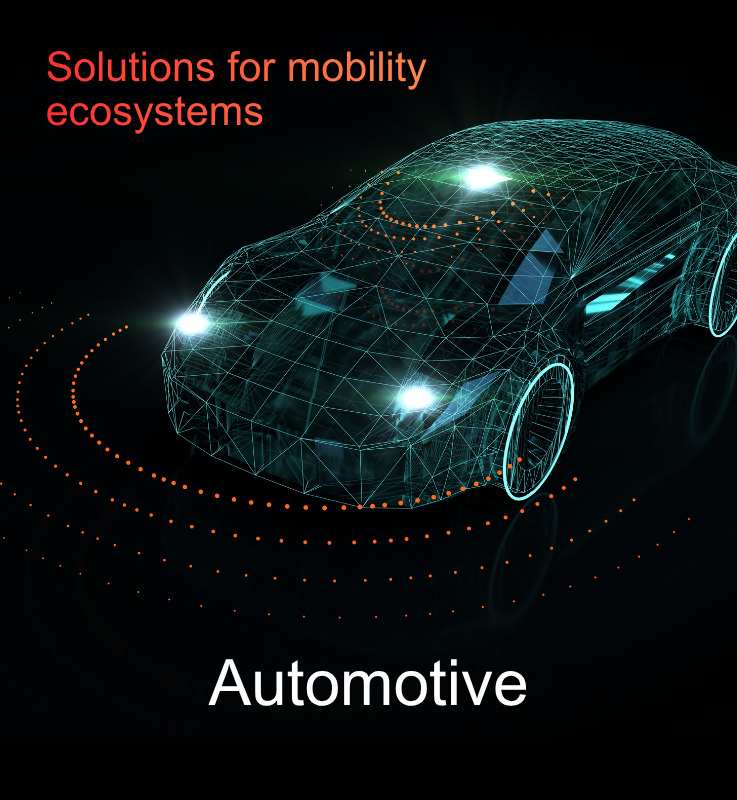
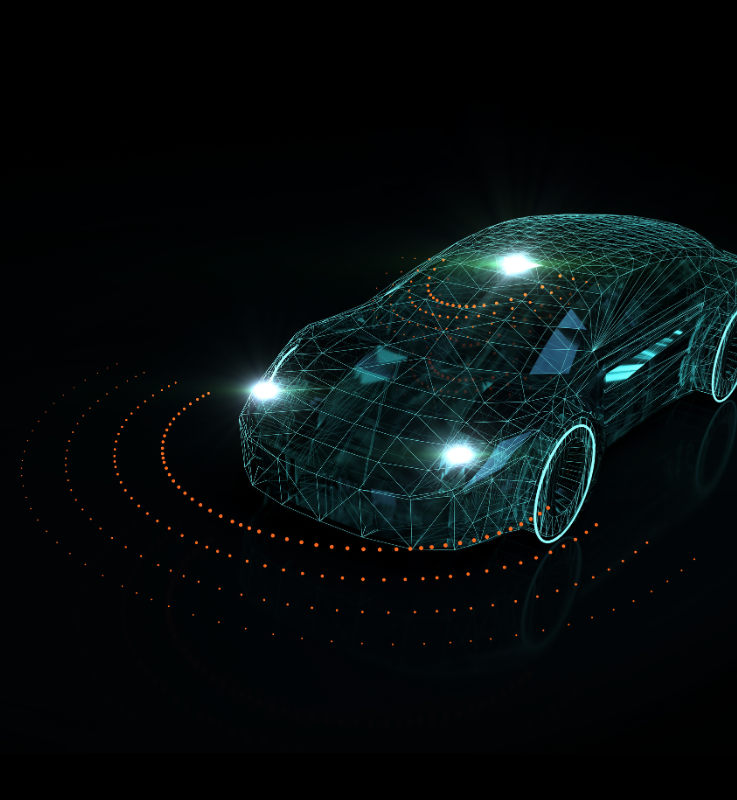
image and text upadte

diff --git a/src/components/Hero.jsx b/src/components/Hero.jsx
@@ -7,18 +7,34 @@ export default function Hero() {
   const panels = [
     {
       image: "/1.png",
+      letter: "A",
+      wordSuffix: "utomotive",
+      greenWord: "Manufacturing",
+      description: "Accelerating the digital transformation journey of your manufacturing enterprise.",
       link: "#dream-details"
     },
     {
       image: "/2.png",
+      letter: "P",
+      wordSuffix: "harma",
+      greenWord: "Healthcare",
+      description: "Cognitive AI operations and data platform engineering for life sciences.",
       link: "#dream-details"
     },
     {
       image: "/3.png",
+      letter: "E",
+      wordSuffix: "lectronics",
+      greenWord: "Specialty Steel",
+      description: "Niche engineering expertise across electronics, steel, and food processing.",
       link: "#dream-details"
     },
     {
       image: "/4.png",
+      letter: "G",
+      wordSuffix: "lobal",
+      greenWord: "Capabilities",
+      description: "Empowering global enterprises with adaptive AI and cloud solutions.",
       link: "#dream-details"
     }
   ];
@@ -41,54 +57,91 @@ export default function Hero() {
                 }`}
             >
 
-              {/* Background Image */}
+              {/* Background Image with crisp contrast and full image text visibility */}
               <div
-                className="absolute inset-0 bg-cover bg-center transition-transform duration-10000 scale-105"
+                className={`absolute inset-0 bg-cover bg-center scale-100 transition-all duration-700 ${isHovered ? 'contrast-[1.12] brightness-[1.08] saturate-[1.12]' : 'contrast-[1.02] brightness-[1.02]'
+                  }`}
                 style={{ backgroundImage: `url(${panel.image})` }}
               />
 
-              {/* Dark Overlay (gets lighter when hovered) */}
-              <div className={`absolute inset-0 transition-colors duration-500 ${isHovered ? 'bg-black/45' : 'bg-black/75'
+              {/* Top-left Orange Text Overlay for the first panel (Automotive) */}
+              {idx === 0 && (
+                <div className={`absolute top-20 left-8 md:top-28 md:left-10 z-20 pointer-events-none select-none text-left transition-all duration-500 ${isHovered ? 'max-w-xs md:max-w-sm' : 'max-w-[150px]'
+                  }`}>
+                  <h3 className={`font-normal leading-tight font-sans tracking-tight transition-all duration-500 ${isHovered ? 'text-2xl md:text-3.5xl lg:text-4xl text-[#f05a28]' : 'text-lg md:text-xl lg:text-[22px] text-[#f05a28]/90'
+                    }`}>
+                    Solutions for mobility<br />ecosystems
+                  </h3>
+                </div>
+              )}
+
+              {/* Top-left Blue/Cyan Text Overlay for the second panel (Pharma) */}
+              {idx === 1 && (
+                <div className={`absolute top-20 left-8 md:top-28 md:left-10 z-20 pointer-events-none select-none text-left transition-all duration-500 ${isHovered ? 'max-w-xs md:max-w-sm' : 'max-w-[150px]'
+                  }`}>
+                  <h3 className={`font-normal leading-tight font-sans tracking-tight transition-all duration-500 ${isHovered ? 'text-2xl md:text-3.5xl lg:text-4xl text-[#00aeef]' : 'text-lg md:text-xl lg:text-[22px] text-[#00aeef]/90'
+                    }`}>
+                    Pharma DX & compliance<br />management
+                  </h3>
+                </div>
+              )}
+
+              {/* Text Overlay for the third panel (Electronics / Manufacturing Sectors) */}
+              {idx === 2 && (
+                <div className={`absolute top-20 left-8 md:top-28 md:left-10 z-20 pointer-events-none select-none text-left transition-all duration-500 ${isHovered ? 'max-w-xs md:max-w-sm' : 'max-w-[150px]'
+                  }`}>
+                  {/* Top Header */}
+                  <h3 className={`font-normal leading-tight font-sans tracking-tight transition-all duration-500 ${isHovered ? 'text-2xl md:text-3.5xl lg:text-4xl' : 'text-lg md:text-xl lg:text-[22px]'
+                    }`}>
+                    <span className="text-[#c084fc]">Serving across all</span><br />
+                    <span className="text-[#00aeef]">manufacturing sectors</span>
+                  </h3>
+
+                  {/* Service List */}
+                  <div className={`mt-6 md:mt-10 space-y-1.5 font-bold font-sans text-white transition-all duration-500 leading-tight ${isHovered ? 'text-xl md:text-2xl opacity-100' : 'text-xs md:text-sm opacity-85'
+                    }`}>
+                    <div>Electronics</div>
+                    <div>Specialty Steel</div>
+                    <div>Food processing</div>
+                    <div>Construction material</div>
+                    <div className="opacity-60 text-xs md:text-sm mt-0.5">... etc.</div>
+                  </div>
+                </div>
+              )}
+
+              {/* Text Overlay for the fourth panel (Global / Value addition) */}
+              {idx === 3 && (
+                <div className={`absolute top-20 left-8 md:top-28 md:left-10 z-20 pointer-events-none select-none text-left transition-all duration-500 ${isHovered ? 'max-w-xs md:max-w-sm' : 'max-w-[150px]'
+                  }`}>
+                  <h3 className={`font-normal leading-tight font-sans tracking-tight transition-all duration-500 ${isHovered ? 'text-2xl md:text-3.5xl lg:text-4xl' : 'text-lg md:text-xl lg:text-[22px]'
+                    }`}>
+                    <span className="text-gray-500">Aspiring to add value</span><br />
+                    <span className="text-slate-800">to manufacturing sector</span>
+                  </h3>
+                </div>
+              )}
+
+              {/* Dark Overlay Gradient (ensures crisp white text readability over background) */}
+              <div className={`absolute inset-0 transition-opacity duration-500 ${isHovered ? 'bg-gradient-to-t from-black/95 via-black/40 to-transparent' : 'bg-gradient-to-t from-black/90 via-black/50 to-black/20'
                 }`} />
 
-              {/* Content Box */}
+              {/* Content Box (Keeps expanding titles: AUTOMOTIVE, PHARMA, etc.) */}
               <div className="absolute inset-0 flex flex-col justify-end p-6 md:p-8 z-10">
-                <div className="space-y-3 max-w-sm">
+                <div className="space-y-2.5 max-w-xl md:max-w-2xl">
 
-                  {/* Letter Header */}
-                  {/* <div className="flex items-baseline leading-none">
-                    <span className="text-5xl md:text-6xl lg:text-7xl font-black text-white select-none">
-                      {panel.letter}
-                    </span>
-                    <span className={`text-xl md:text-2xl font-black text-ossisto-blue uppercase tracking-wide transition-all duration-500 origin-left overflow-hidden ${
-                      isHovered ? 'max-w-xs opacity-100 ml-0.5' : 'max-w-0 opacity-0'
-                    }`}>
-                      {panel.wordSuffix}
-                    </span>
-                    {panel.greenWord && isHovered && (
-                      <span className="text-xl md:text-2xl font-black text-ossisto-blue uppercase tracking-wide ml-2 animate-fade-in">
-                        {panel.greenWord}
+                  {/* Letter Header: Displays single letter when normal (A, P, E, G), expands to full word on hover */}
+                  <div className="flex flex-col leading-none">
+                    <div className="flex items-baseline leading-none">
+                      <span className={`font-black text-white select-none tracking-tight transition-all duration-500 ${isHovered ? 'text-5xl md:text-6xl lg:text-7xl' : 'text-3xl md:text-4xl lg:text-[42px]'
+                        }`}>
+                        {panel.letter}
                       </span>
-                    )}
-                  </div> */}
-
-                  {/* Description text */}
-                  {/* <p className={`text-xs md:text-sm text-gray-300 font-semibold leading-relaxed transition-opacity duration-300 ${
-                    isHovered ? 'opacity-100' : 'opacity-85 lg:opacity-75'
-                  }`}>
-                    {panel.description}
-                  </p> */}
-
-                  {/* Know More CTA Link */}
-                  {/* <div className="pt-1.5">
-                    <a 
-                      href={panel.link}
-                      className="inline-flex items-center gap-1 text-[11px] font-bold text-ossisto-blue hover:text-white uppercase tracking-wider transition-colors"
-                    >
-                      Know More 
-                      <span className="text-[10px] select-none">▶</span>
-                    </a>
-                  </div> */}
+                      <span className={`font-black text-white tracking-tight transition-all duration-500 origin-left overflow-hidden max-w-2xl opacity-100 ${isHovered ? 'text-4xl md:text-5xl lg:text-6xl' : 'text-2xl md:text-3xl lg:text-[32px]'
+                        }`}>
+                        {panel.wordSuffix}
+                      </span>
+                    </div>
+                  </div>
 
                 </div>
               </div>
@@ -99,29 +152,18 @@ export default function Hero() {
       </div>
 
       {/* Floating Left Search Button Overlay (Fixed viewport position) */}
-      <div className="fixed bottom-12 left-8 md:left-12 z-30 w-full max-w-[285px] hidden md:block">
+      <div className="fixed bottom-12 left-8 md:left-12 z-30 w-full max-w-[210px] hidden md:block">
         {/* Custom Search Box converted to a button */}
         <button
           onClick={() => {
             const el = document.getElementById('dream-details');
             if (el) el.scrollIntoView({ behavior: 'smooth' });
           }}
-          className="w-full bg-slate-950/85 backdrop-blur-md border border-ossisto-blue/30 px-4 py-2.5 rounded-full flex items-center justify-between gap-2 shadow-2xl hover:bg-slate-900/90 transition-all duration-200 cursor-pointer text-left"
+          className="w-full bg-slate-950/85 backdrop-blur-md border border-ossisto-blue/30 px-5 py-2.5 rounded-full flex items-center justify-center shadow-2xl hover:bg-slate-900/90 transition-all duration-200 cursor-pointer text-center"
         >
-          <div className="flex items-center gap-2 flex-1">
-            {/* Sparkle star icon */}
-            <span className="text-ossisto-blue text-xs font-bold animate-pulse">✦</span>
-            <span className="text-gray-300 text-[11px] font-semibold tracking-wide">
-              Search the intelligent future...
-            </span>
-          </div>
-
-          {/* Arrow icon container */}
-          <div
-            className="w-7 h-7 rounded-full bg-ossisto-blue flex items-center justify-center text-white shrink-0 shadow-md shadow-ossisto-blue/10"
-          >
-            <ArrowUpRight className="w-3.5 h-3.5 stroke-[2.5]" />
-          </div>
+          <span className="text-gray-300 text-[11px] font-semibold tracking-wide">
+            Open positions – Apply
+          </span>
         </button>
       </div>
 

diff --git a/src/components/DreamDetails.jsx b/src/components/DreamDetails.jsx
@@ -129,7 +129,7 @@ export default function DreamDetails() {
   ];
 
   return (
-    <section id="dream-details" className="bg-white py-16 px-6 md:px-12 lg:px-24 border-b border-gray-100 font-sans relative overflow-hidden">
+    <section id="dream-details" className="bg-white py-16 px-6 md:px-12 lg:px-24 font-sans relative overflow-hidden">
       
       {/* Inline styles for the horizontal logo marquee */}
       <style dangerouslySetInnerHTML={{__html: `
@@ -147,32 +147,7 @@ export default function DreamDetails() {
         }
       `}} />
 
-      {/* Decorative Top-Left Dots Grid */}
-      <div className="absolute top-8 left-8 hidden lg:grid grid-cols-4 gap-1.5 opacity-20 pointer-events-none">
-        {Array.from({ length: 16 }).map((_, i) => (
-          <div key={i} className="w-1.5 h-1.5 rounded-full bg-slate-500" />
-        ))}
-      </div>
 
-      {/* Decorative Right-Side Dots Columns */}
-      <div className="absolute right-8 top-1/2 -translate-y-1/2 hidden lg:grid grid-cols-2 gap-2 opacity-20 pointer-events-none">
-        {Array.from({ length: 16 }).map((_, i) => (
-          <div key={i} className="w-1.5 h-1.5 rounded-full bg-slate-500" />
-        ))}
-      </div>
-
-      {/* Decorative Bottom-Right Arrowheads Grid */}
-      <div className="absolute bottom-16 right-16 hidden lg:flex flex-col gap-2 items-end opacity-20 pointer-events-none">
-        {[1, 2, 3, 4, 5].map((count, rIdx) => (
-          <div key={rIdx} className="flex gap-2">
-            {Array.from({ length: count }).map((_, cIdx) => (
-              <svg key={cIdx} className="w-2.5 h-2.5 text-slate-400" viewBox="0 0 24 24" fill="currentColor">
-                <path d="M8 5v14l11-7z" />
-              </svg>
-            ))}
-          </div>
-        ))}
-      </div>
 
       <div className="max-w-6xl mx-auto relative mt-20 pb-20">
         

diff --git a/src/components/AboutOssistoModern.jsx b/src/components/AboutOssistoModern.jsx
@@ -2,7 +2,7 @@ import React from 'react';
 
 export default function AboutOssistoModern() {
   return (
-    <section className="bg-white py-20 px-6 md:px-12 lg:px-24 border-b border-gray-100 font-sans flex flex-col items-center text-center">
+    <section className="bg-white py-20 px-6 md:px-12 lg:px-24 font-sans flex flex-col items-center text-center">
       <div className="max-w-7xl mx-auto flex flex-col items-center w-full">
         
         {/* About Ossisto Text Container (Centered) */}
